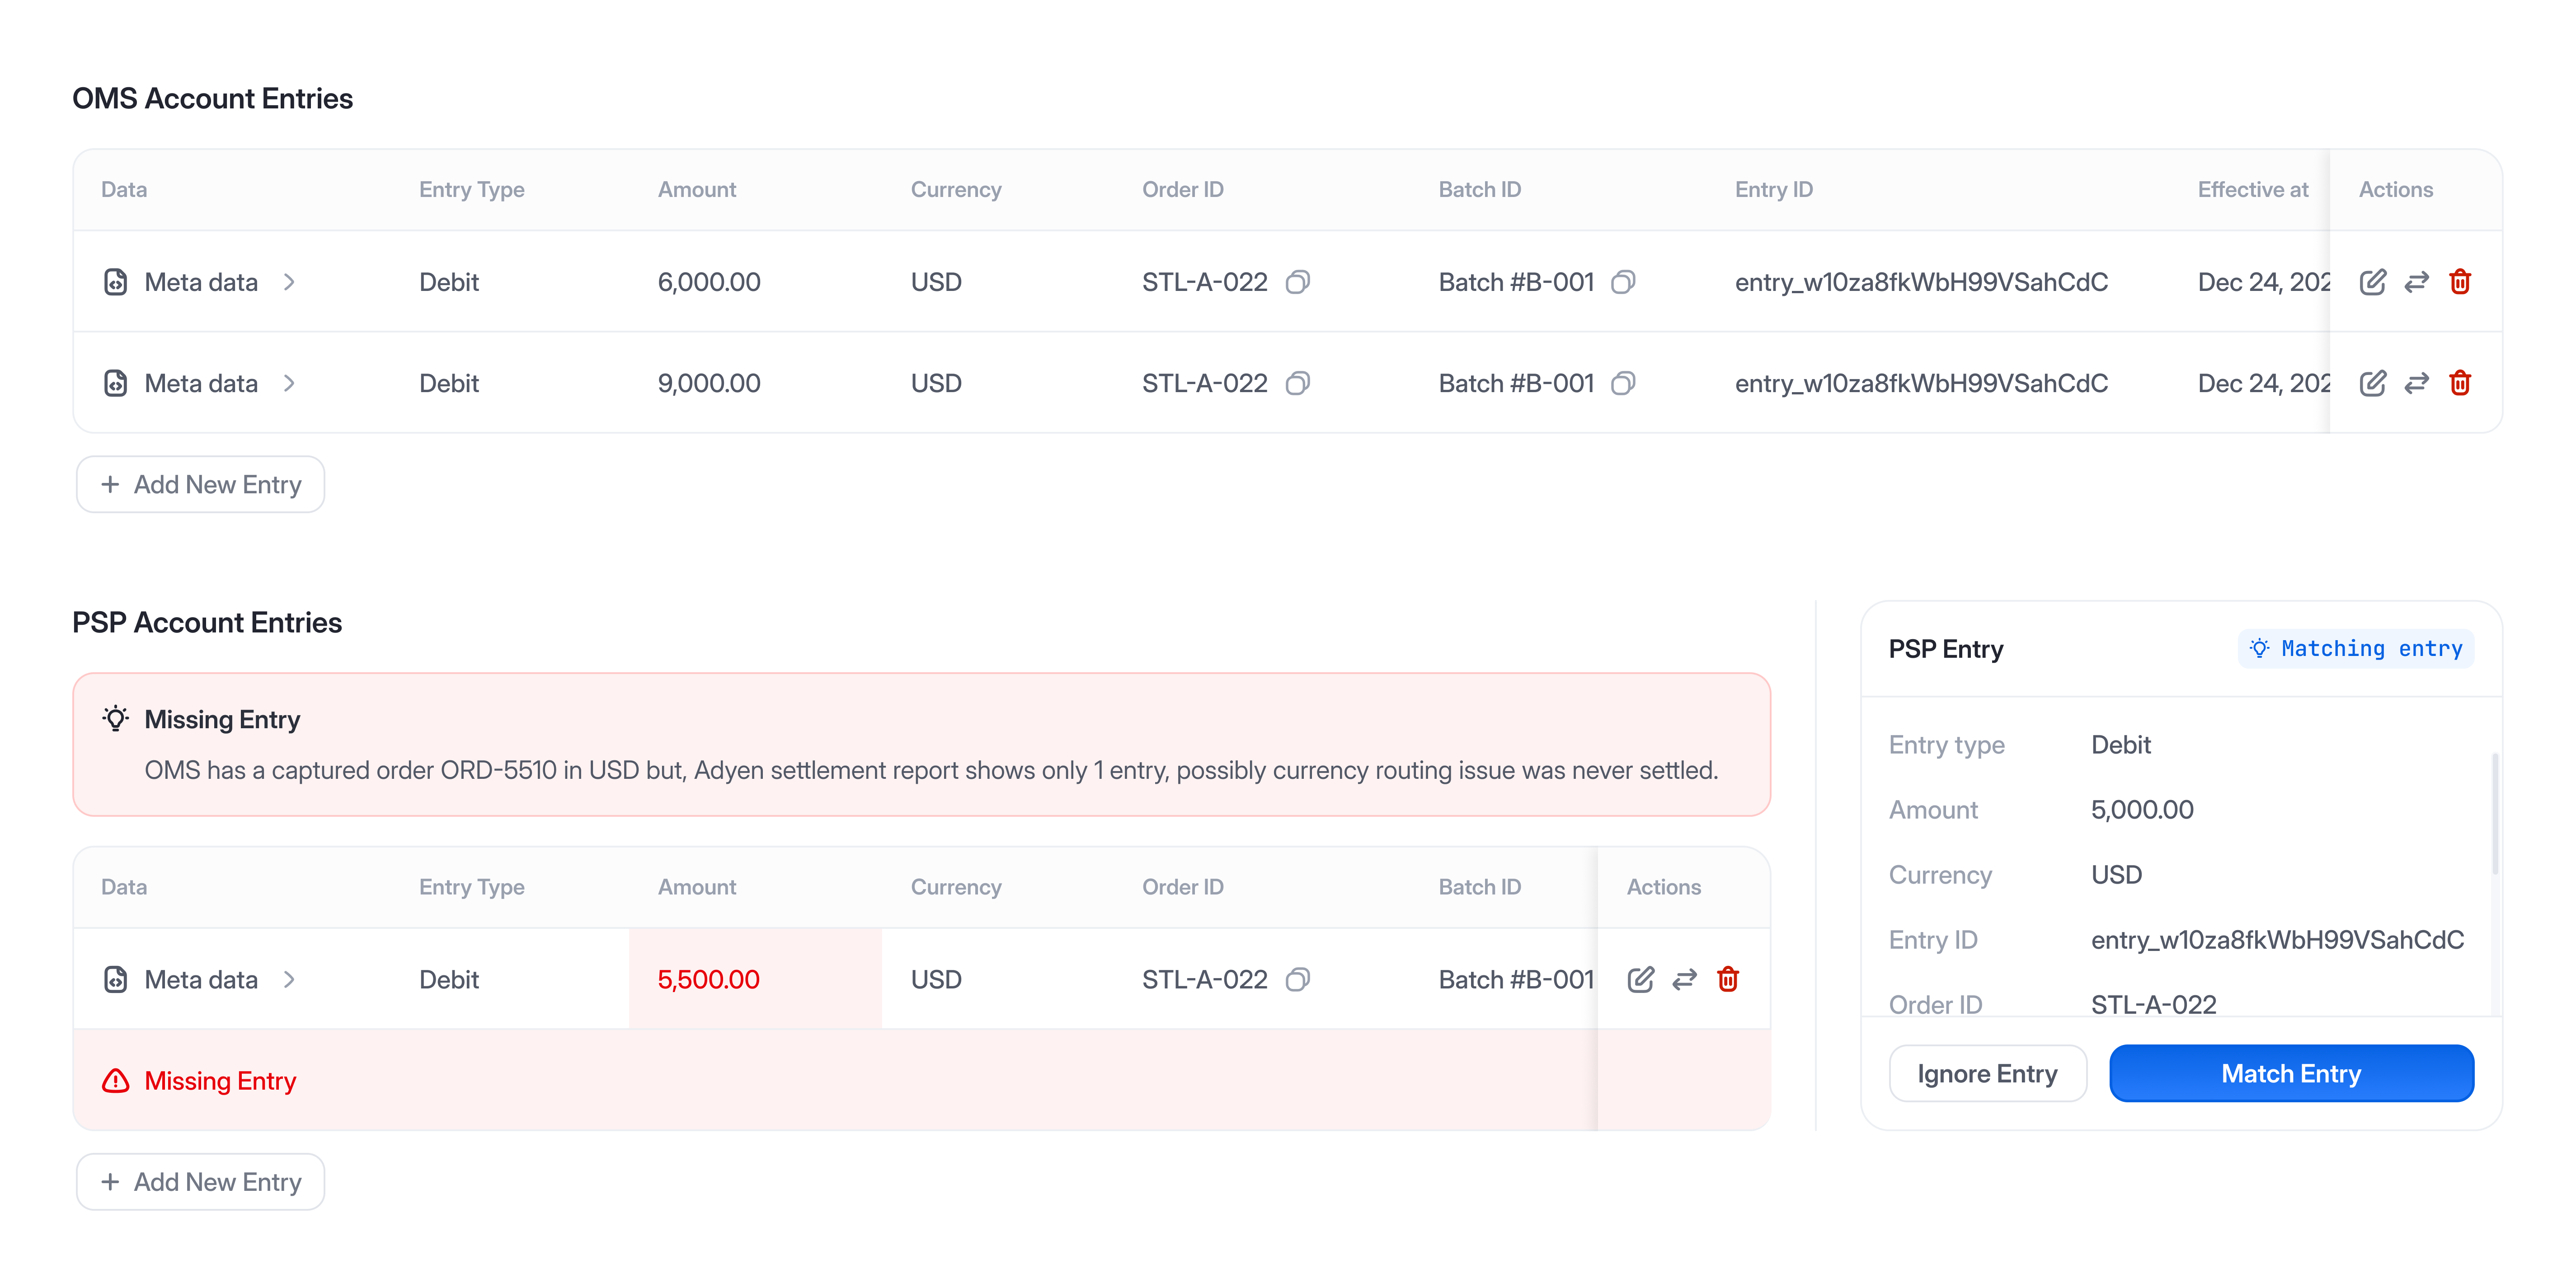
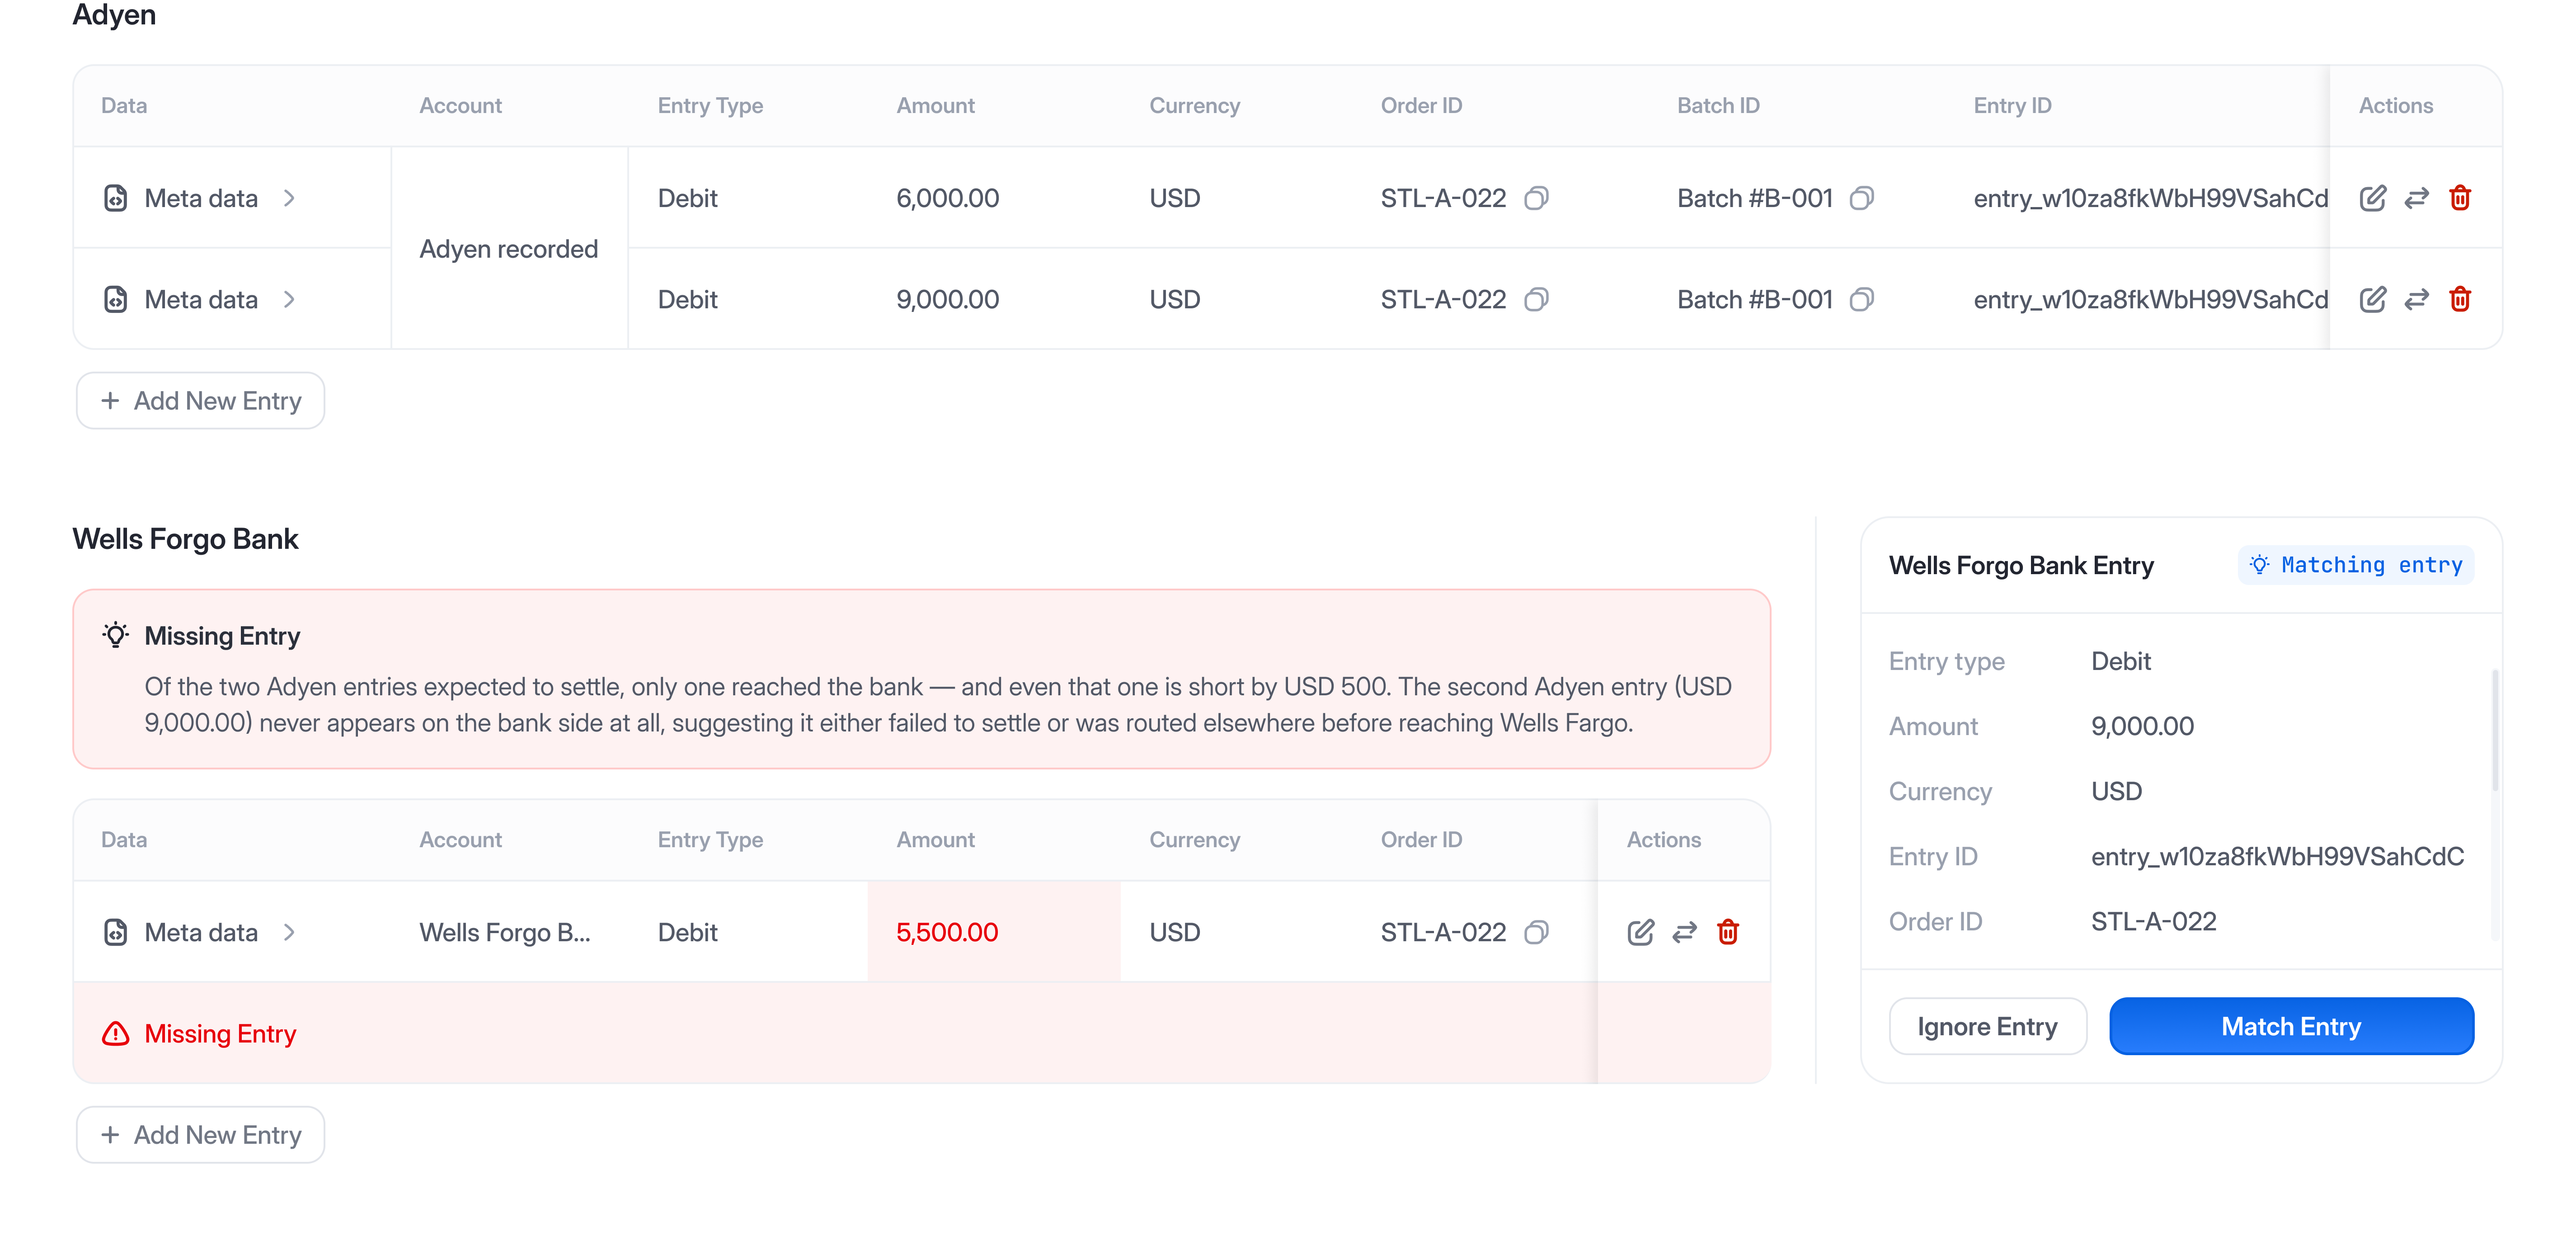
Update exception detail and OMS entries screenshots, move back link to nav

diff --git a/work-reconciliation.html b/work-reconciliation.html
@@ -85,6 +85,8 @@
   opacity: 0; animation: csFadeUp 0.7s ease forwards 0.05s;
 }
 .cs-back:hover { color: var(--accent); gap: 13px; }
+nav .logo a.cs-back { margin-bottom: 0; opacity: 1; animation: none; color: var(--text-muted); }
+nav .logo a.cs-back:hover { color: var(--accent); }
 .cs-back .arr { display: inline-block; transition: transform 0.2s ease; }
 .cs-back:hover .arr { transform: translateX(-3px); }
 
@@ -581,16 +583,12 @@ a.cs-cta { margin-top: 28px; }
 
 <nav>
   <div class="logo">
-    <a href="index.html">
-      <img src="assets/akhil.jpg" alt="" class="mark" style="width: 22px; height: 22px; object-fit: cover; object-position: top center; filter: grayscale(100%);">
-      <span class="name">Akhil Male</span>
-    </a>
+    <a class="cs-back" href="index.html"><span class="arr">←</span> Back to selected work</a>
   </div>
 </nav>
 
 <!-- ═══════════════════════ HERO ═══════════════════════ -->
 <header class="cs-hero">
-  <a class="cs-back" href="index.html"><span class="arr">←</span> Back to selected work</a>
   <div class="cs-hero-eyebrow">Case Study<span class="sep">·</span>Concept Draft<span class="sep">·</span>2025</div>
   <h1 class="cs-hero-title">Recon<em>ciliation</em></h1>
   <div class="cs-hero-meta">